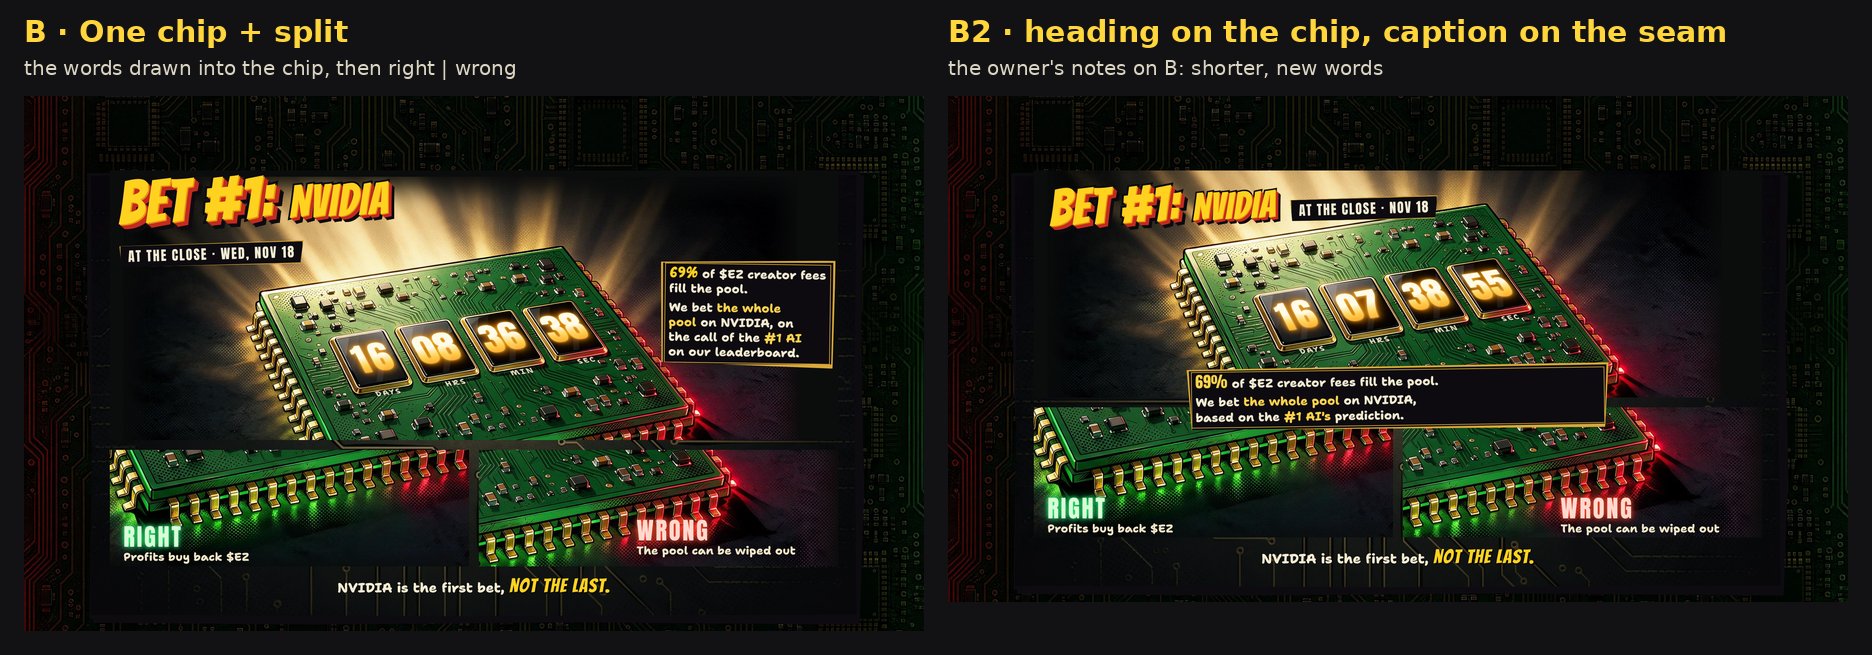
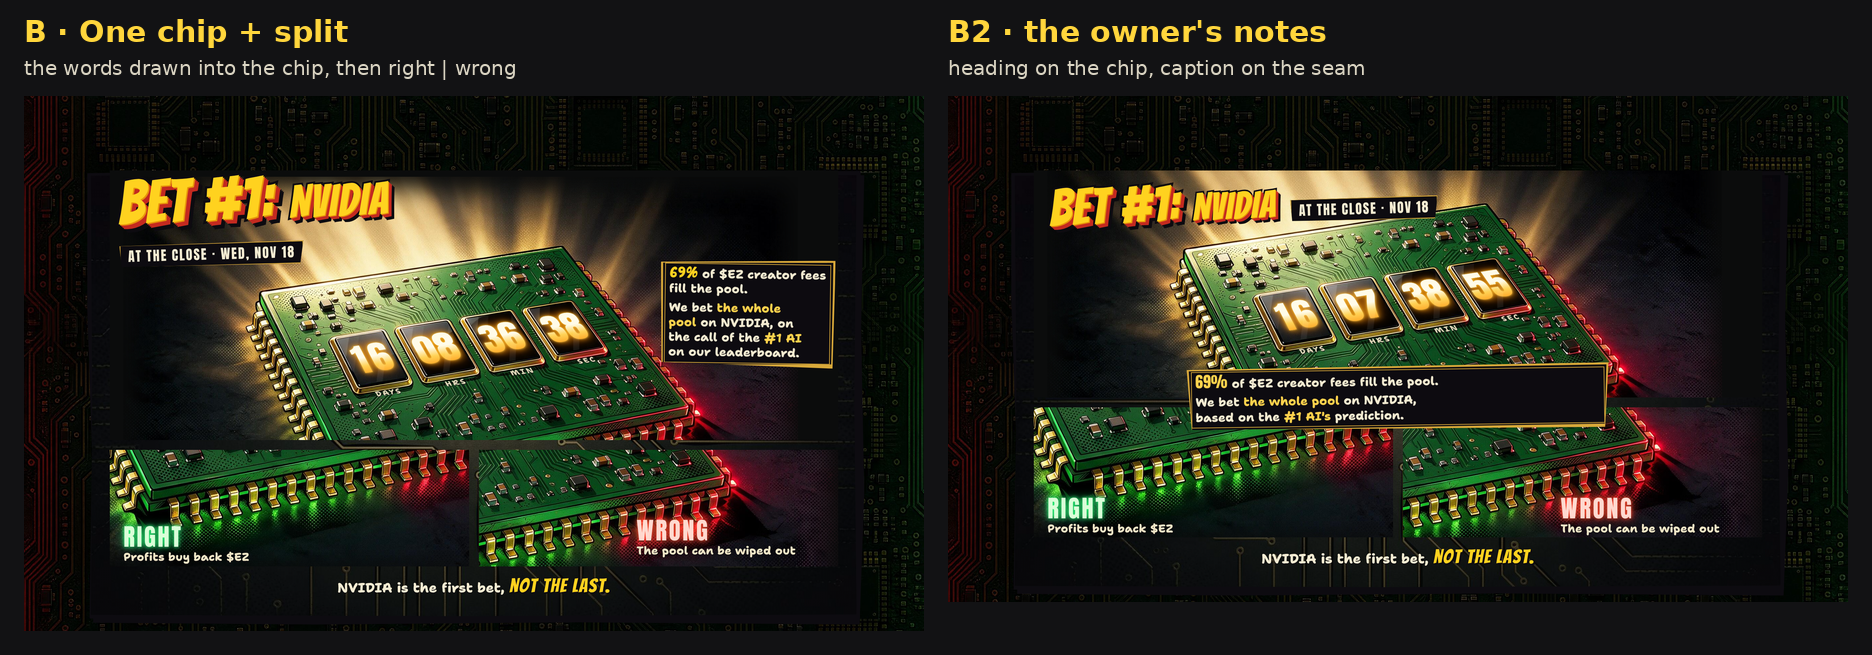
H28 bet5 B2: heading on the chip, the owner's caption words on the seam (mockup)
Claude-Session: https://claude.ai/code/session_01KWvAje4hnkBCpPe6R47PoY

Changed region(s): [[0.4957, 0.0305, 0.9295, 0.1221]]

diff --git a/ez/tools/concepts/worlds/comic/story/h/bet5/board.py b/ez/tools/concepts/worlds/comic/story/h/bet5/board.py
@@ -4,8 +4,8 @@ import sys
 from PIL import Image,ImageDraw,ImageFont
 D,W,OUT=sys.argv[1],int(sys.argv[2]),sys.argv[3]
 IDS=(sys.argv[4] if len(sys.argv)>4 else 'now,a,b,d').split(',')
-LAB={'now':'Today (live X2+)','a':'A · Say it first','b':'B · One chip + split','d':'D · Plain (simplest)','b2':'B2 · heading on the chip, caption on the seam'}
-SUB={'now':'vault, date line, chip, board D, sockets','a':'the owner\'s words, the chip, right | wrong','b':'the words drawn into the chip, then right | wrong','d':'words, one picture, words','b2':'the owner\'s notes on B: shorter, new words'}
+LAB={'now':'Today (live X2+)','a':'A · Say it first','b':'B · One chip + split','d':'D · Plain (simplest)','b2':'B2 · the owner\'s notes'}
+SUB={'now':'vault, date line, chip, board D, sockets','a':'the owner\'s words, the chip, right | wrong','b':'the words drawn into the chip, then right | wrong','d':'words, one picture, words','b2':'heading on the chip, caption on the seam'}
 col=420 if W<600 else 900
 ims=[]
 for i in IDS:

diff --git a/ez/tools/concepts/worlds/comic/story/h/bet5/REPORT.md b/ez/tools/concepts/worlds/comic/story/h/bet5/REPORT.md
@@ -40,3 +40,32 @@ Skill rule 0:
 1. Should today's leader be named (for example "Today: Grok"), or only "the #1 AI on our leaderboard" as in your words? All takes now drop the name.
 2. Leverage: 5x is still on no take. Add "at 5x" to the second sentence?
 3. In D, is "Right: / Wrong:" as text enough, or should the green and red light of the painting carry it (as A does)?
+
+## B2: the owner's notes on B (2026-11-02)
+
+The owner picked B and asked for these changes. Files: `b2.js` and `b2.css`. Boards: `ez/x2p-h28-bet5-2-{390,1280,320}.png` (B, then B2). Reshoot: `PORT=8975 node run.js <out> b,b2 320,390,1280`.
+
+1. **The heading moves onto the chip.** "Bet #1: NVIDIA" now sits where the date tab was, on the chip's top edge in its light. "At the close · Nov 18" is on the same row. The chip crop starts just above that row, so the gap is gone.
+2. **New caption words.** The caption reads "69% of $EZ creator fees fill the pool." / "We bet the whole pool on NVIDIA, based on the #1 AI's prediction."
+   - The share comes from SIM.poolShare: with .42 the caption reads 42%.
+   - The word "leaderboard" is gone.
+3. **The caption sits on the seam.** The K2 caption is centred on the seam between the chip and the RIGHT / WRONG crops. b2.js sets its top to the chip's bottom minus half its own height, rerun on resize and fonts.
+   - It is also centred across the seam between the two crops, so both lines are hidden under it.
+   - The chip crop runs down to below the dies' labels, so the caption never covers DAYS / HRS.
+
+**Heights against B:**
+
+| Width | B | B2 |
+|---|---|---|
+| 320 | 502px | 398px |
+| 390 | 601px | 476px (125px, about 21%, shorter) |
+| 1280 | 743px | 701px |
+
+**Checks:**
+- At 320, 390 and 1280: no errors, no sideways scroll, no text past its picture.
+- The countdown ticks.
+- Reduced motion at 390: no errors.
+
+**Known issues:**
+- At 320 the heading row fills the width (heading 28px, tag 10px). A longer date ("Nov 18" is the longest form, "Sep 30") still fits, with about 10px to spare.
+- On desktop the heading row sits in the rays above the chip, not on its edge. The chip there starts lower in the painting.
